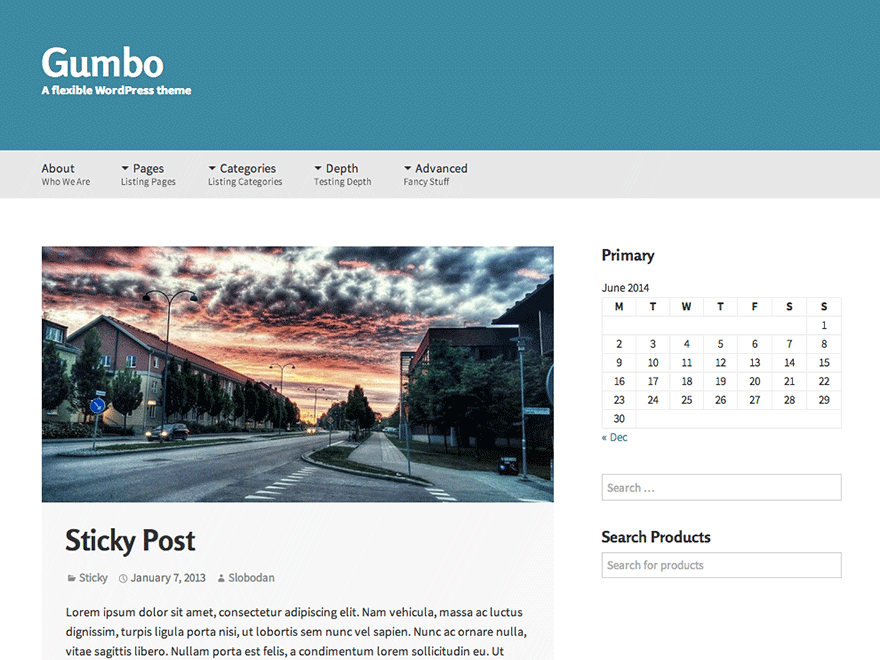
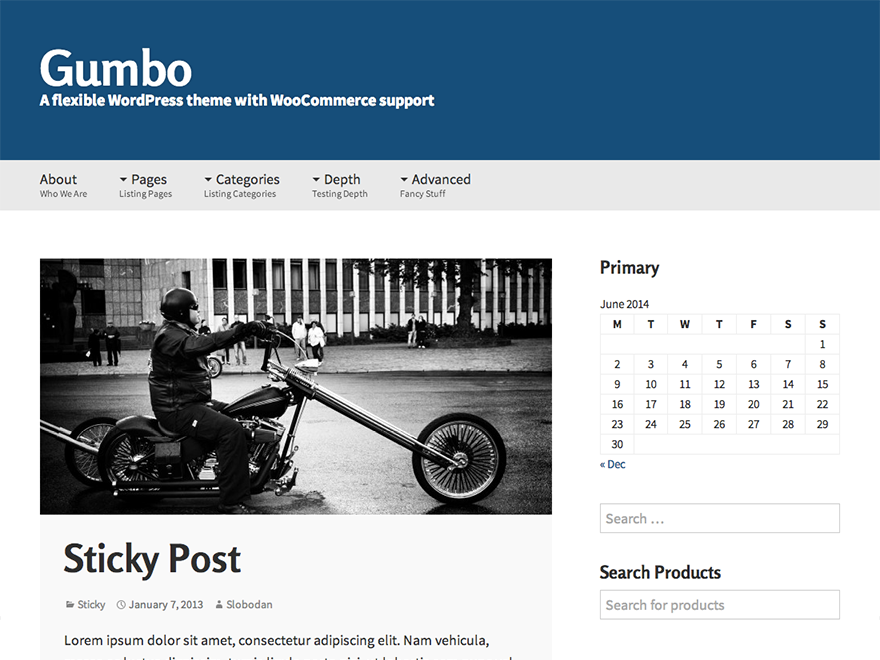
1.1 CSS fix and updated license info in readme

diff --git a/style.css b/style.css
@@ -3,8 +3,8 @@ Theme Name:     Gumbo
 Theme URI:      http://gumbotheme.com
 Author:         ThematoSoup
 Author URI:     http://thematosoup.com
-Description:    Gumbo is an extremely flexible WordPress theme easy to setup and customize. It’s created with two things in mind - WordPress best practices and minimalism. If you’re looking for a premium responsive WordPress theme that focuses on your content, the ease of use and customer support, you’re in the right spot. Gumbo is using all the latest WordPress standards so it’s stable, secure, optimized and future proof.
-Version:        1.0.5
+Description:    Gumbo is an extremely flexible WordPress theme easy to setup and customize. It’s created with two things in mind - WordPress best practices and minimalism. If you’re looking for a premium, responsive, WooCommerce compatible WordPress theme that focuses on your content, ease of use and customer support, you’re in the right spot. Gumbo is using all the latest WordPress standards so it’s stable, secure, optimized and future proof.
+Version:        1.1
 License:        GNU General Public License v2 or later
 License URI:    http://www.gnu.org/licenses/gpl-2.0.html
 Tags:           white, light, dark, two-columns, left-sidebar, right-sidebar, fixed-layout, responsive-layout, custom-background, custom-header, custom-menu, editor-style, featured-images, flexible-header, full-width-template, post-formats, rtl-language-support, sticky-post, theme-options, translation-ready
@@ -1015,6 +1015,13 @@ body.font-size-large,
 	margin: 0;
 	width: auto;
 	float: none;
+}
+.no-sidebar #content,
+.attachment #content,
+.page-template-page-templatestemplate-masonry-php #content,
+.page-template-page-templatestemplate-widgetized-php #content {
+	padding-left: 80px;
+	padding-right: 80px;
 }
 .attachment #primary .attachment img {
 	display: block;
